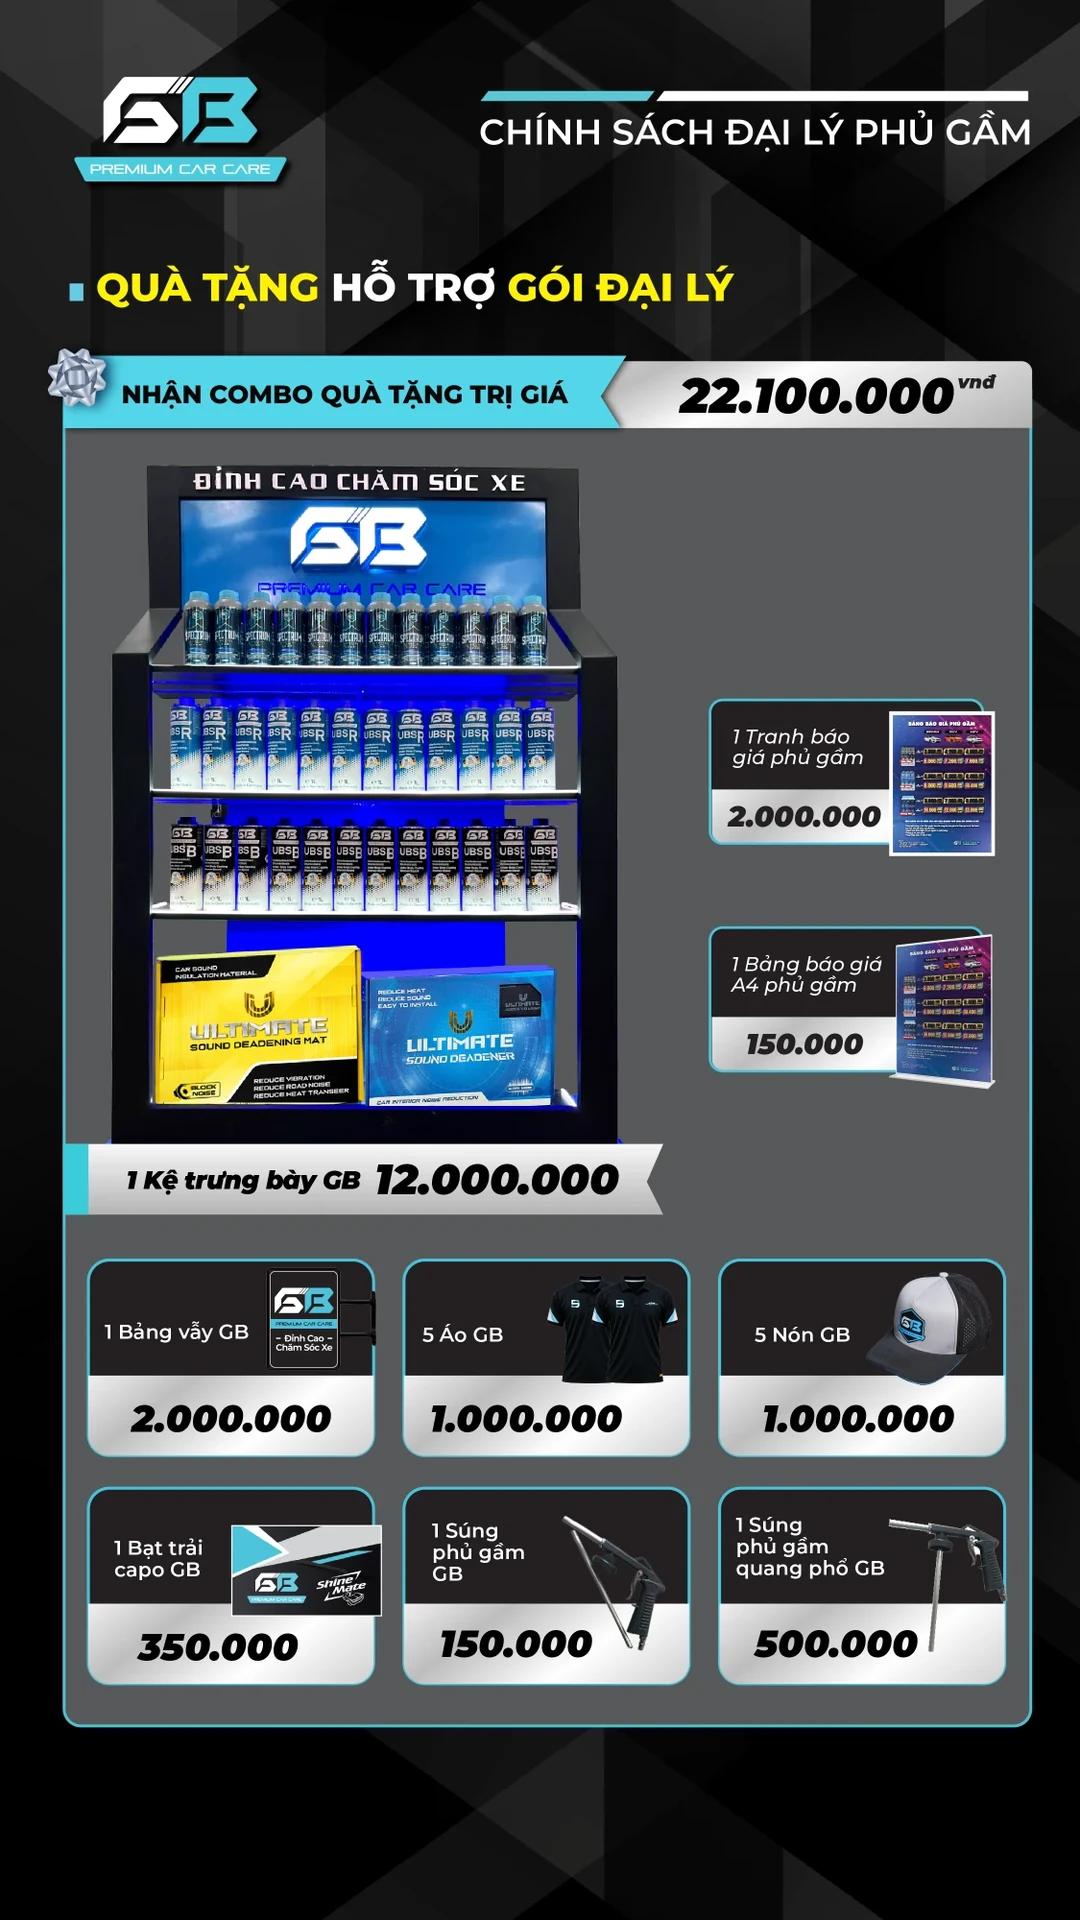
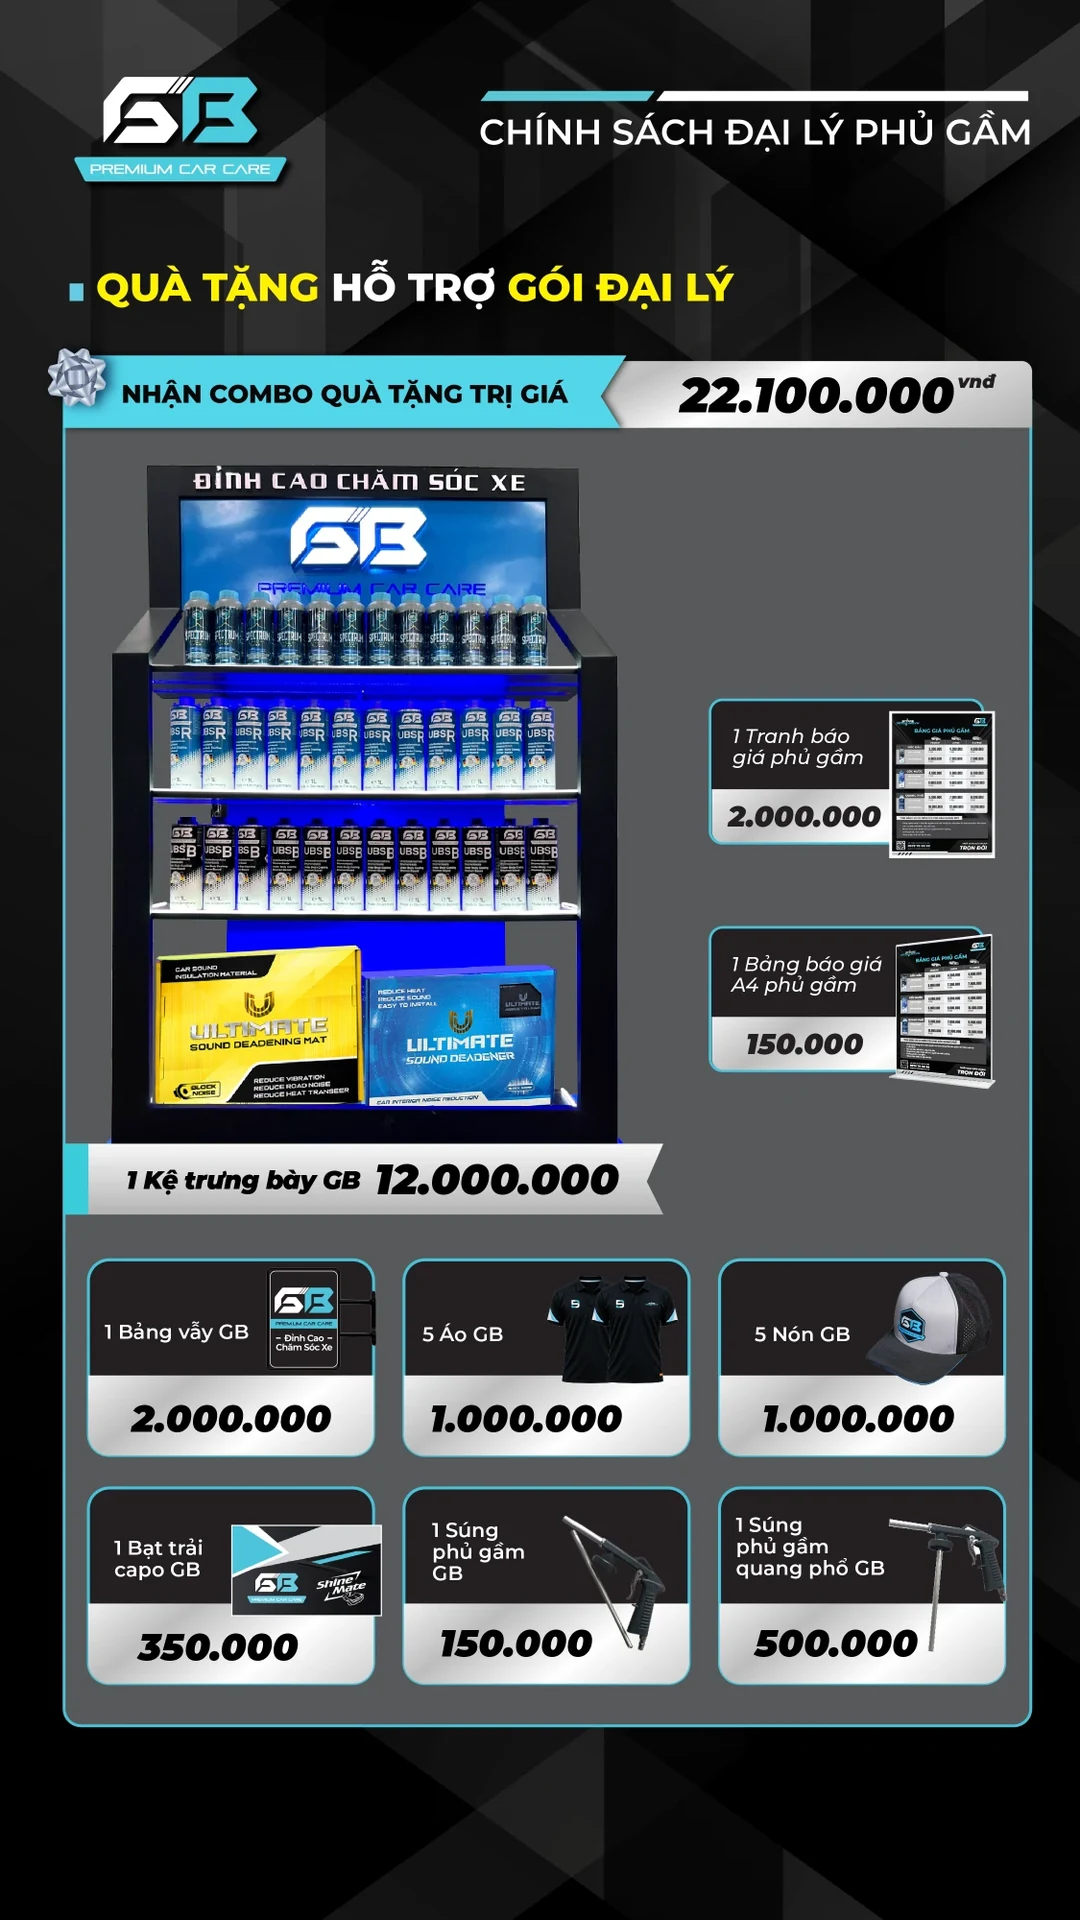
Dealer gift poster updated (new price-list thumbnails)

diff --git a/phu-gam.html b/phu-gam.html
@@ -139,7 +139,7 @@
       <section class="page" id="uu-dai" data-stop="Ưu đãi đại lý" aria-label="Ưu đãi đại lý phủ gầm GB: khuyến mãi tái nhập và quà tặng hỗ trợ">
         <div class="poster-grid">
           <img class="poster" loading="lazy" decoding="async" src="assets/phu-gam/info/poster-dai-ly-tai-nhap.webp?v=4" width="1080" height="1920" alt="Chương trình khuyến mãi phủ gầm cho đơn hàng tái nhập (gốc dầu, gốc nước, quang phổ). Gói 1: tái nhập 2 thùng, tặng 1 súng phủ gầm GB. Gói 2: tái nhập 5 thùng, giảm 5%, tặng 2 súng. Gói 3: tái nhập 10 thùng, giảm 10%, tặng 2 súng.">
-          <img class="poster" loading="lazy" decoding="async" src="assets/phu-gam/info/poster-dai-ly-ho-tro.webp?v=4" width="1080" height="1920" alt="Quà tặng hỗ trợ gói đại lý, combo quà tặng trị giá 22.100.000: 1 kệ trưng bày GB (12.000.000), 1 tranh báo giá phủ gầm (2.000.000), 1 bảng báo giá A4 (150.000), 1 bảng vẫy GB (2.000.000), 5 áo GB (1.000.000), 5 nón GB (1.000.000), 1 bạt trải capo GB (350.000), 1 súng phủ gầm GB (150.000), 1 súng phủ gầm quang phổ GB (500.000).">
+          <img class="poster" loading="lazy" decoding="async" src="assets/phu-gam/info/poster-dai-ly-ho-tro.webp?v=5" width="1080" height="1920" alt="Quà tặng hỗ trợ gói đại lý, combo quà tặng trị giá 22.100.000: 1 kệ trưng bày GB (12.000.000), 1 tranh báo giá phủ gầm (2.000.000), 1 bảng báo giá A4 (150.000), 1 bảng vẫy GB (2.000.000), 5 áo GB (1.000.000), 5 nón GB (1.000.000), 1 bạt trải capo GB (350.000), 1 súng phủ gầm GB (150.000), 1 súng phủ gầm quang phổ GB (500.000).">
         </div>
       </section>
 
